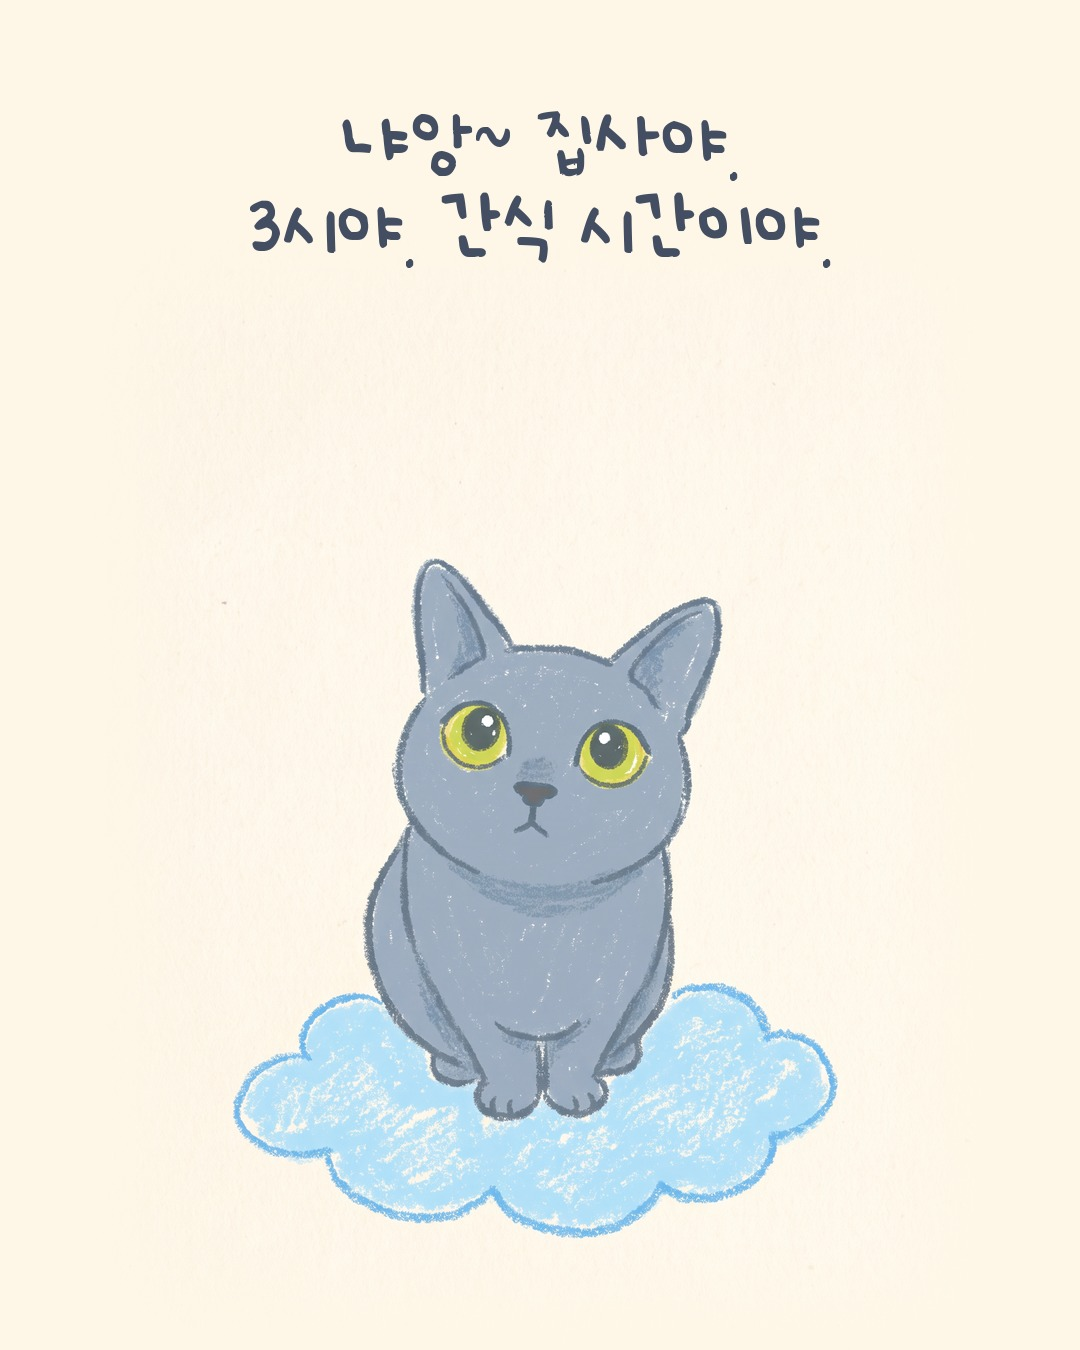
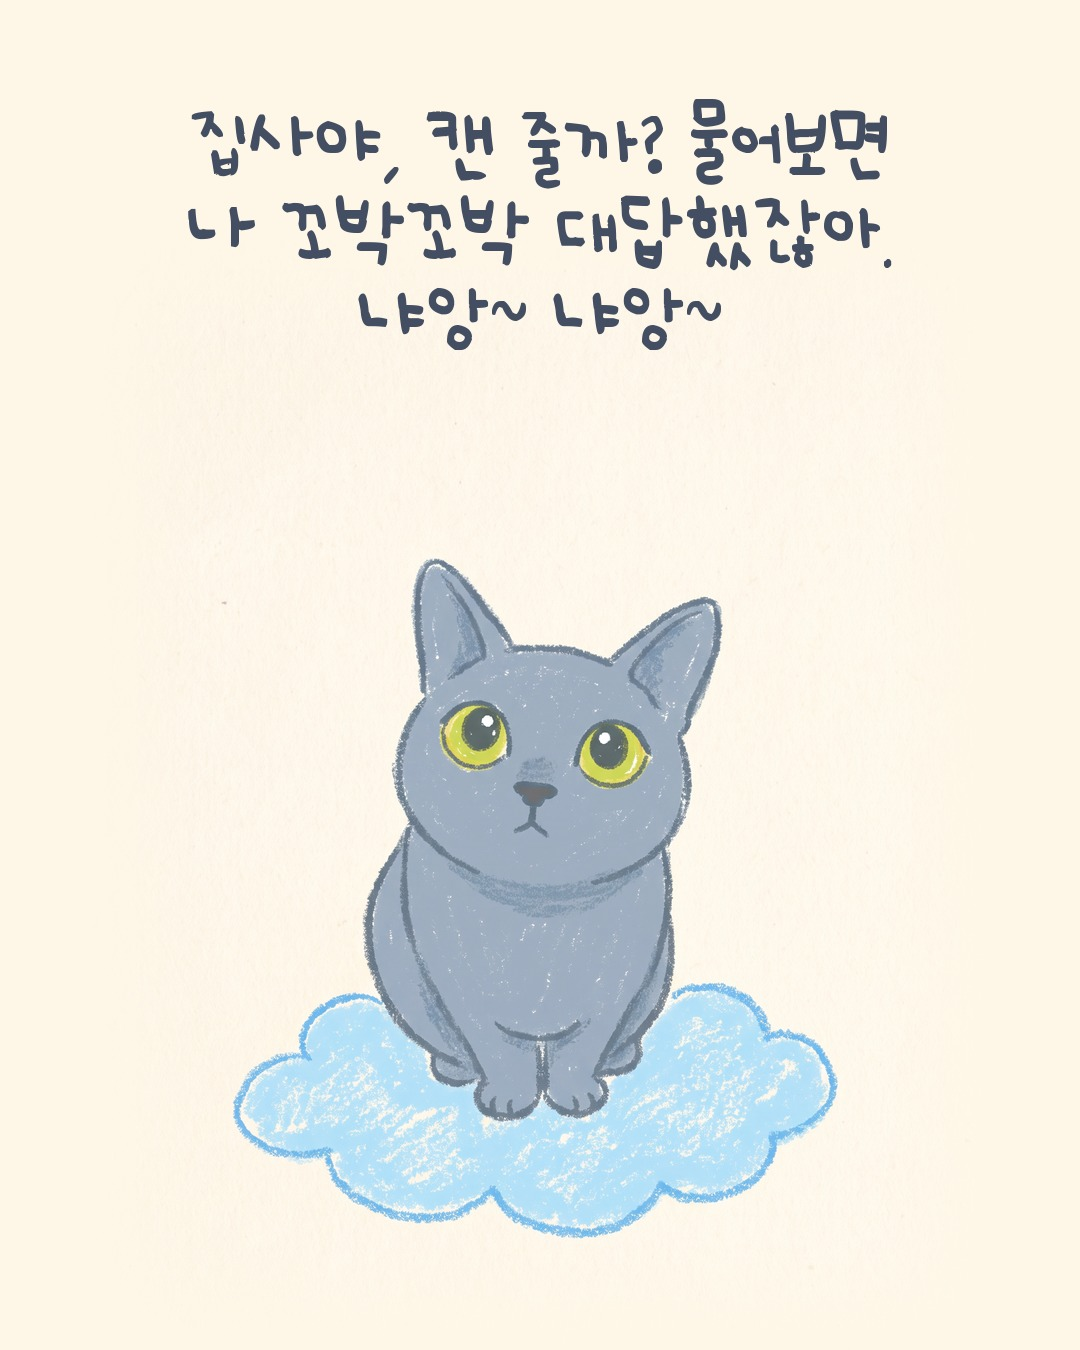
푸름이 스레드: 08번 글을 실제 영상 속 '캔 줄까?' 대화로 교체

Changed region(s): [[0.1528, 0.0622, 0.825, 0.28]]

diff --git a/docs/푸름이스레드/overlay.py b/docs/푸름이스레드/overlay.py
@@ -11,7 +11,7 @@ posts = [
   ("05_다리", "컷/cut05.png", ["집사 다리가 제일 편했어.", "지금도 그래."]),
   ("06_생선", "컷/cut06.png", ["하늘에도 생선 인형은 있어.", "근데 던져주는 집사가 없어."]),
   ("07_손그림", "컷/cut07_집사손그림.jpg", ["집사가 직접 그린 나야.", "좀 닮았나?"]),
-  ("08_간식", "컷/cut08.png", ["냐앙~ 집사야.", "3시야. 간식 시간이야."]),
+  ("08_간식", "컷/cut08.png", ["집사야, 캔 줄까? 물어보면", "나 꼬박꼬박 대답했잖아.", "냐앙~ 냐앙~"]),
   ("09_앞발", "컷/cut09.png", ["힘들면 손 내밀어.", "내 앞발 여기 있어."]),
   ("10_이불", "컷/cut10.png", ["날이 추워졌어.", "이불 꼭 덮고 자, 집사야."]),
   ("11_낮잠", "컷/cut11.png", ["오늘 하루 어땠어?", "나는 구름 위에서 낮잠 세 번 잤어."]),

diff --git a/docs/푸름이스레드/기획서.md b/docs/푸름이스레드/기획서.md
@@ -71,7 +71,7 @@ A cute simple doodle illustration of a Russian Blue cat, based on the reference 
 | 10/22 수 | 05_다리 | 집사 다리가 제일 편했어 |
 | 10/23 목 | 06_생선 | 던져주는 집사가 없어 |
 | 10/24 금 | 07 (루카 손그림) | "집사가 직접 그린 나야. 좀 닮았나?" — 그림 파일 받아야 함 |
-| 10/25 토 | 08_간식 | 3시야. 간식 시간이야 |
+| 10/25 토 | 08_간식 | 캔 줄까? 물어보면 꼬박꼬박 대답했잖아 (실제 영상 속 대화) |
 | 10/26 일 | 09_앞발 | 내 앞발 여기 있어 |
 | 10/27 월 | 10_이불 | 이불 꼭 덮고 자 |
 | 10/28 화 | 11_낮잠 | 낮잠 세 번 잤어 |
